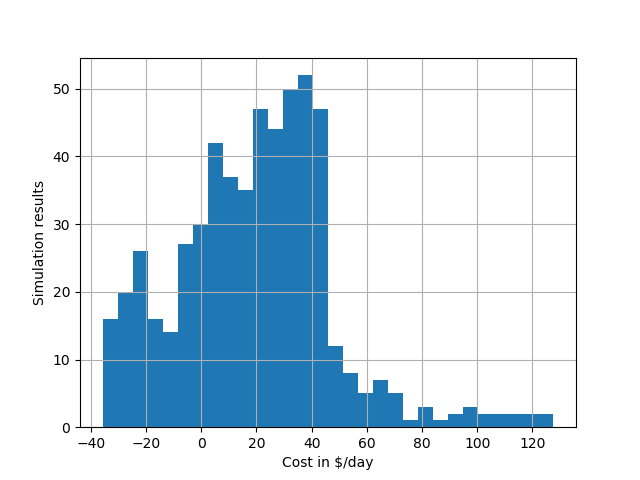
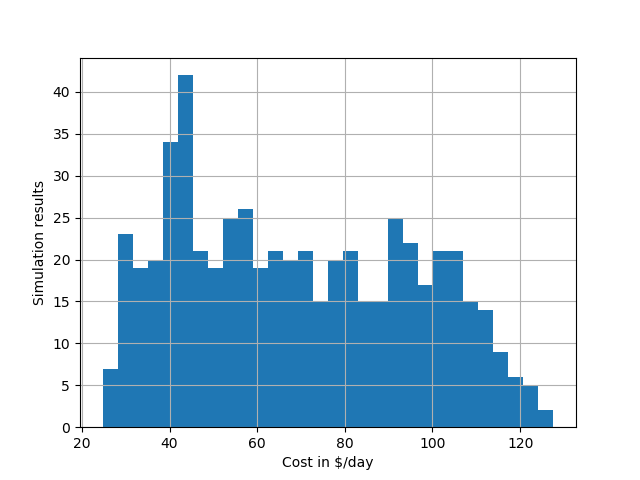
solve bug

diff --git a/run_mc_sim.py b/run_mc_sim.py
@@ -32,10 +32,10 @@ for sim_id in range(1, NUMBER_OF_SIMULATIONS_ID + 1):
         cost_record.append(system.get_cost())
         flywheel_final_soc.append(np.sum(system.flywheel.soc_record))
 
-        #print('Is at cost:', system.get_cost())
-        #system.plot_results()
-        #file_name = 'normal' + str(sim_number) + '-' + str(sim_id) + '.png'
-        #plt.savefig(file_name)
+        print('Is at cost:', system.get_cost())
+        system.plot_results()
+        file_name = 'normal' + str(sim_number) + '-' + str(sim_id) + '.png'
+        plt.savefig(file_name)
 
 data_result = pd.DataFrame(sim_id_list, columns=['sim_id'])
 data_result['sim_num'] = sim_number_list

diff --git a/ecoblock_test/simulation.py b/ecoblock_test/simulation.py
@@ -34,7 +34,7 @@ class System:
                     self.flywheel.discharge(unchanged_consumption, i)
             if unchanged_consumption < 0:
                 if self.flywheel.is_full() or price_to_sell >= self.ref_price_to_sell:
-                    self.load_to_grid[i] += unchanged_consumption
+                    self.load_to_grid[i] += - unchanged_consumption
                 else:
                     self.flywheel.charge(- unchanged_consumption, i)
         self.total_cost = sum(self.load_to_grid)*0.07 + np.dot(self.load_from_grid.T, self.prices_to_buy)
